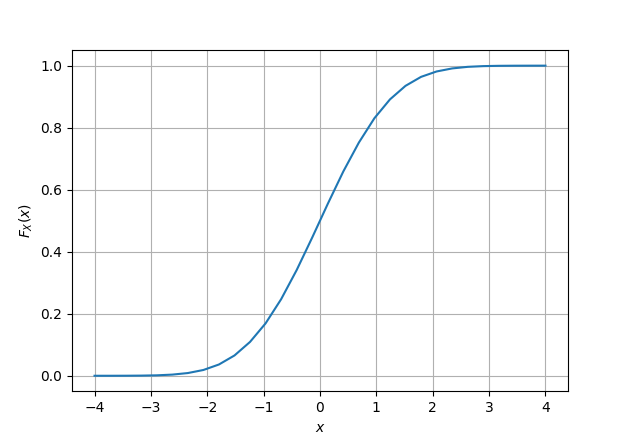
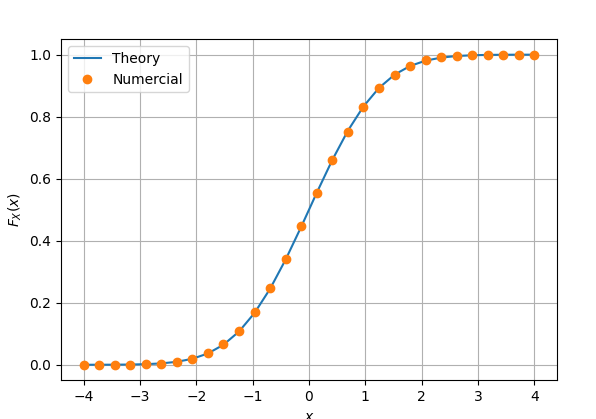
version3

Changed region(s): [[0.0, 0.0931, 0.9362, 1.0], [0.2114, 0.4033, 0.2718, 0.4654]]

diff --git a/2-CLT/code/q2.2.py b/2-CLT/code/q2.2.py
@@ -1,4 +1,5 @@
 import numpy as np
+import mpmath as mp
 import matplotlib.pyplot as plt
 
 x = np.linspace(-4,4,30) #points on the x axis
@@ -6,15 +7,25 @@ simlen = int(1e6) #number of samples
 err = [] #declaring probability list
 
 
-randvar = np.loadtxt('gau.dat',dtype='double')
+randvar = np.loadtxt('../gau.dat',dtype='double')
 for i in range(0,30):
     err_ind = np.nonzero(randvar < x[i]) #checking probability condition
     err_n = np.size(err_ind) #computing the probability
     err.append(err_n/simlen) #storing the probability values in a list
 
-plt.plot(x.T,err)
+def f(x):
+    return (1-mp.erf(x/mp.sqrt(2)))/2
+
+def g(x):
+    return 1-f(x)
+
+cdf = np.vectorize(g)
+
+plt.plot(x.T,cdf(x))
+plt.plot(x[0:30].T,err,"o")
 plt.grid() 
 plt.xlabel('$x$')
+plt.legend(["Theory","Numercial"])
 plt.ylabel('$F_X(x)$')
 plt.show()
 
